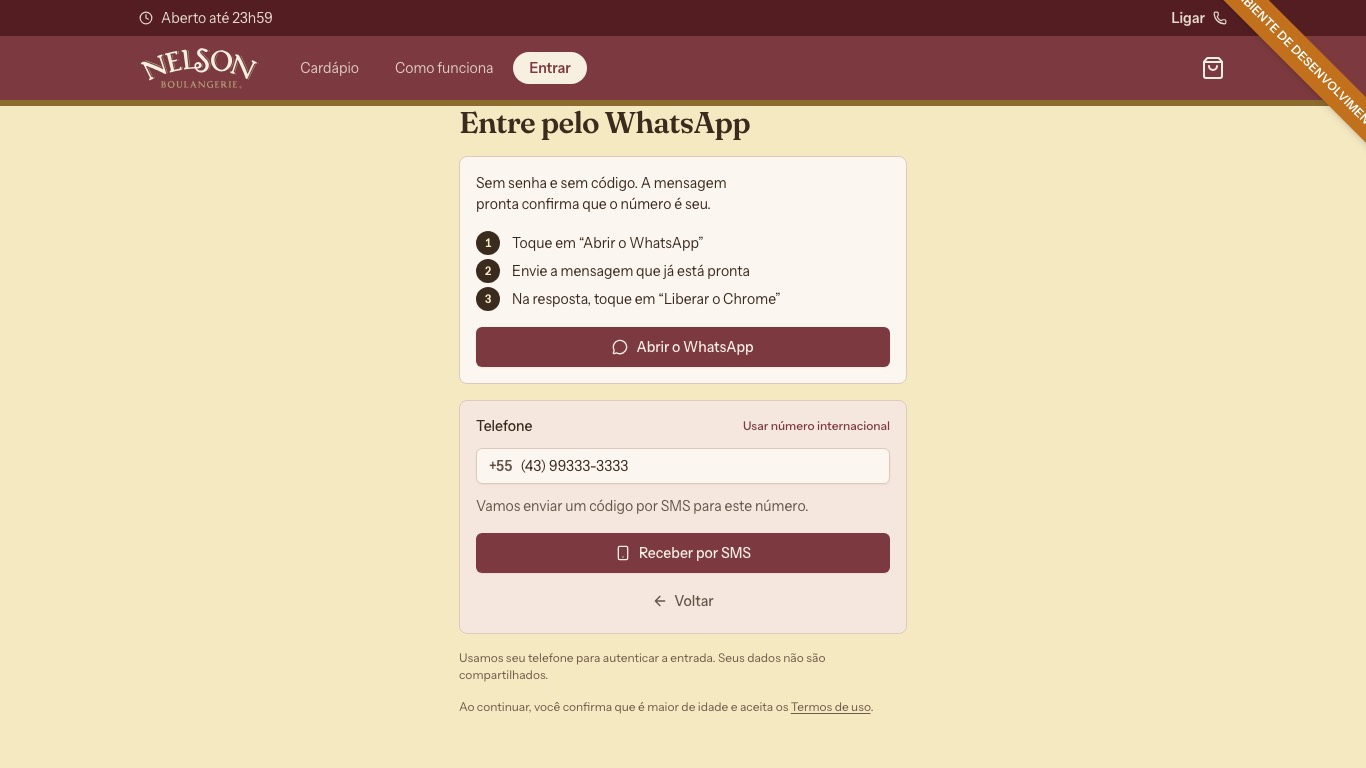
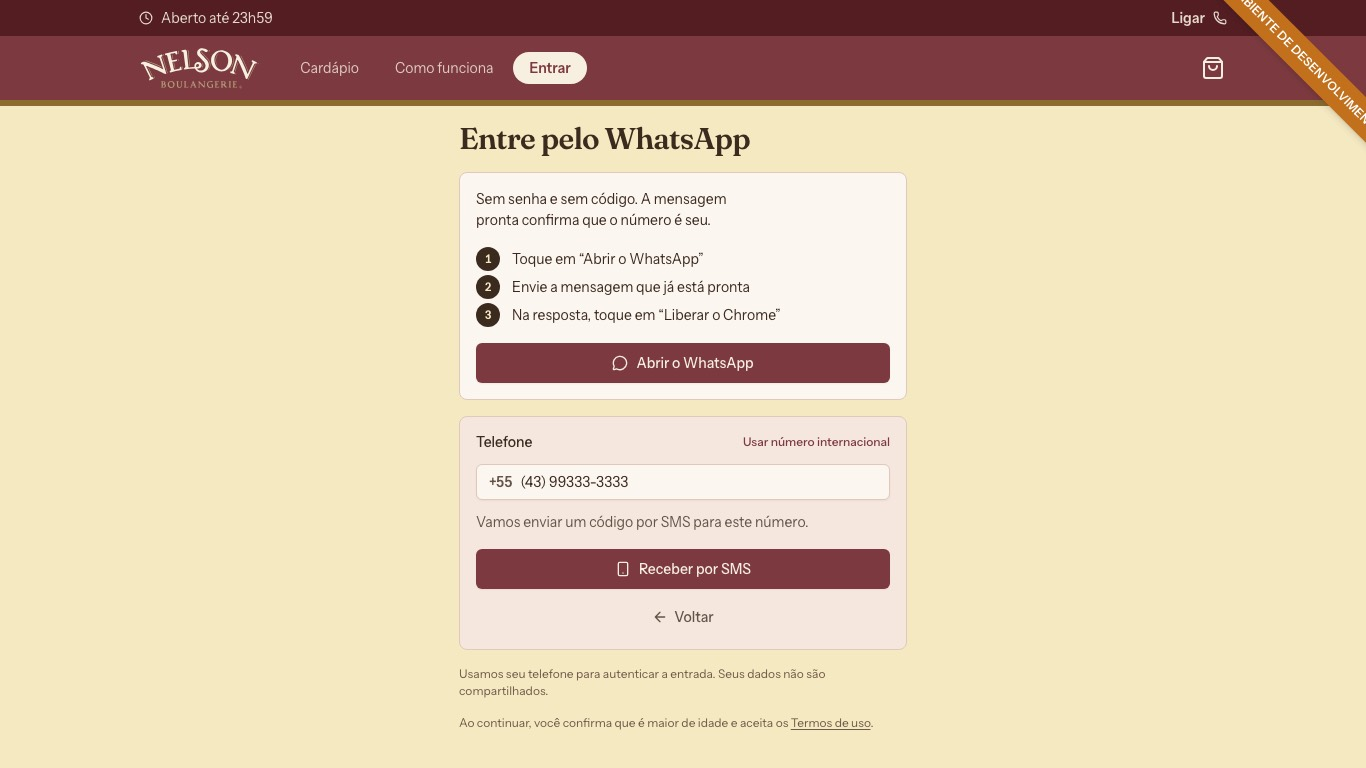
OC-32: o título do /entrar para na linha de foco com o respiro do passo
A revisão viu o título "Entre pelo WhatsApp" encostado no fio do cabeçalho
(topo em 106, base do chrome em 106). Medido: a régua padrão põe o topo do
BLOCO na base do chrome (0px nos Termos, barra recolhida); o respiro até o
título é do próprio bloco (Termos pt-8, passo do checkout py-4). O bloco do
/entrar não tinha nenhum.

O bloco do passo ganha `-mt-4 pt-4`: 16px acima do título, o mesmo py-4 do
passo do checkout, sem mexer no lugar dele na página parada. Medido em 375 e
desktop, no passo do código e na volta por "Trocar telefone": bloco na base
do chrome (0px), título 16px abaixo.

O teste da régua passa a exigir a MESMA linha nos dois estados da status bar
(topo do bloco = base do chrome à vista), salvo página no topo e a parada
exata na reexpansão.

Compromisso: DEV-2026-085

Changed region(s): [[0.3382, 0.125, 0.6764, 0.9688]]

diff --git a/surfaces/storefront-nuxt/tests/scrollPresentation.test.ts b/surfaces/storefront-nuxt/tests/scrollPresentation.test.ts
@@ -92,7 +92,7 @@ describe('focusRulerAllowance', () => {
     expect(focusRulerAllowance(900)).toBe(0)
   })
 
-  it('em qualquer bloco e qualquer estado de partida, o topo do bloco fica abaixo do chrome', () => {
+  it('em qualquer bloco e qualquer estado de partida, o bloco para NA linha de foco, nunca sob o chrome', () => {
     const NAVBAR = 70
     // O cabeçalho é sticky e ocupa o fluxo: conteúdo nenhum começa acima dele.
     const firstContent = NAVBAR + STATUS_BAR_HEIGHT
@@ -102,8 +102,18 @@ describe('focusRulerAllowance', () => {
         const ruler = NAVBAR + focusRulerAllowance(base)
         const landing = Math.max(0, blockTop - ruler)
         const visibleTop = blockTop - landing
-        expect(visibleTop, `bloco em ${blockTop}, partida ${startCollapsed ? 'recolhida' : 'de pé'}`)
-          .toBeGreaterThanOrEqual(chromeAt(startCollapsed, landing))
+        const chrome = chromeAt(startCollapsed, landing)
+        const where = `bloco em ${blockTop}, partida ${startCollapsed ? 'recolhida' : 'de pé'}`
+        expect(visibleTop, where).toBeGreaterThanOrEqual(chrome)
+        // A MESMA linha da régua padrão (barra recolhida, régua do CSS): o topo do
+        // bloco encosta na base do chrome que está à vista, com a status bar de pé
+        // ou não. O respiro até o conteúdo é do próprio bloco (o passo do checkout
+        // tem py-4; o do /entrar, -mt-4 pt-4), então ele é o mesmo nos dois estados.
+        // Exceções medidas: a página no topo (não dá para subir mais) e a parada
+        // exata na reexpansão com a barra recolhida (36px a mais, à vista).
+        const clamped = landing === 0
+        const expandEdge = startCollapsed && landing === HEADER_EXPAND_AT
+        if (!clamped && !expandEdge) expect(visibleTop - chrome, where).toBe(0)
       }
     }
   })

diff --git a/surfaces/storefront-nuxt/app/pages/entrar.vue b/surfaces/storefront-nuxt/app/pages/entrar.vue
@@ -675,8 +675,11 @@ useSeoMeta({
         <template v-else>
         <!-- Bloco de foco do passo (useNextFocus): o título viaja junto com os
              campos. `data-focus-target` aplica a régua única do Storefront —
-             exatamente a base visual da navbar (4rem + fio Brass de 6px). -->
-        <section :data-focus-target="step" class="shop-stack-block outline-none" tabindex="-1">
+             exatamente a base visual da navbar (4rem + fio Brass de 6px).
+             O respiro entre o cabeçalho e o título é do BLOCO, como no checkout
+             (o passo tem py-4): `-mt-4 pt-4` põe 16px acima do título sem mexer
+             no lugar dele na página parada. Sem isso o título encostava no fio. -->
+        <section :data-focus-target="step" class="shop-stack-block -mt-4 pt-4 outline-none" tabindex="-1">
         <header>
           <h1 class="shop-title">{{ stepTitle }}</h1>
           <p v-if="stepDescription" class="mt-2 shop-muted">{{ stepDescription }}</p>

diff --git a/surfaces/storefront-nuxt/tests/surfaceGuardrails.test.ts b/surfaces/storefront-nuxt/tests/surfaceGuardrails.test.ts
@@ -729,6 +729,9 @@ describe('surface UX guardrails', () => {
     // rolagem/foco escritos à mão na página.
     expect(login).toContain('useNextFocus(step)')
     expect(login).toContain(':data-focus-target="step"')
+    // O título do passo para na linha de foco COM respiro: 16px do bloco
+    // (`-mt-4 pt-4`, o mesmo py-4 do passo do checkout), sem encostar no fio.
+    expect(login).toContain('<section :data-focus-target="step" class="shop-stack-block -mt-4 pt-4 outline-none" tabindex="-1">')
     expect(login).not.toContain('scrollTo(')
     expect(login).not.toContain('.focus(')
     expect(login).toContain('data-login-moment')
